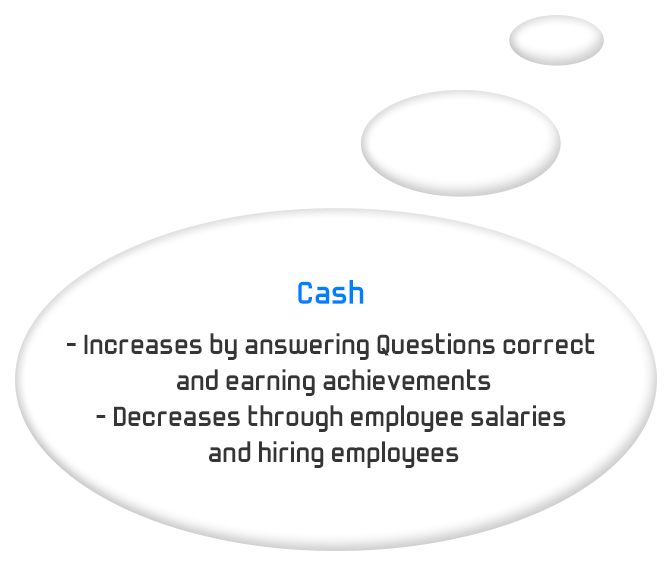
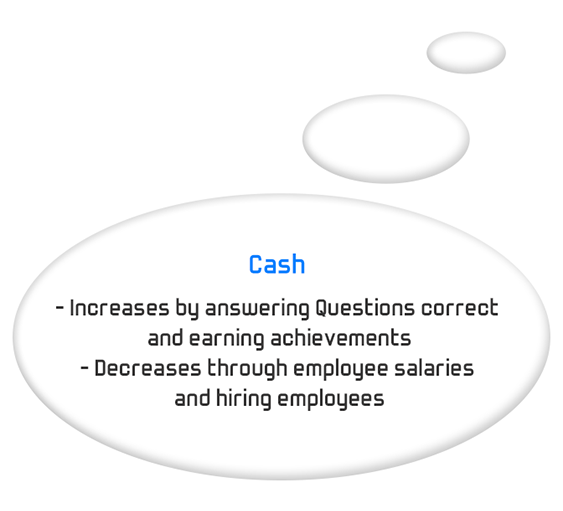
@ravi: making Dialog only one time is done

diff --git a/lib/dialogs/display_dailogs.dart b/lib/dialogs/display_dailogs.dart
@@ -2,6 +2,7 @@ import 'package:flutter/material.dart';
 import 'package:ke_employee/dialogs/intro_sreen_dailog.dart';
 import 'package:ke_employee/helper/Utils.dart';
 import 'package:ke_employee/helper/constant.dart';
+import 'package:ke_employee/helper/prefkeys.dart';
 import 'package:ke_employee/helper/res.dart';
 import 'package:ke_employee/helper/string_res.dart';
 import 'package:ke_employee/injection/dependency_injection.dart';
@@ -904,9 +905,8 @@ class DisplayDialogs {
             desTextLine: Utils.getText(context, StringRes.rewardsDialogContent),
             onTapBtn: () async {
               Navigator.pop(context);
-              await Injector.updateIntroDialogType(
-                  Const.introYourWillIsAtYourCommand);
-              await Injector.prefs.setBool(Const.introRewards.toString(), true);
+              await Injector.updateIntroDialogType(Const.introYourWillIsAtYourCommand);
+              await Injector.prefs.setBool(PrefKeys.introRewards, true);
             },
           );
         });
@@ -940,8 +940,7 @@ class DisplayDialogs {
             onTapBtn: () async {
               Navigator.pop(context);
               await Injector.updateIntroDialogType(Const.introChallanges);
-              await Injector.prefs
-                  .setBool(Const.introYourWillIsAtYourCommand.toString(), true);
+              await Injector.prefs.setBool(PrefKeys.introYourWillIsAtYourCommand.toString(), true);
               showIntroChallanges(context);
             },
           );
@@ -1010,8 +1009,7 @@ class DisplayDialogs {
             onTapBtn: () async {
               Navigator.pop(context);
               await Injector.updateIntroDialogType(Const.introRanking);
-              await Injector.prefs.setBool(
-                  Const.introMarketingAndCommunications.toString(), true);
+              await Injector.prefs.setBool(PrefKeys.introMarketingAndCommunications, true);
               showRanking(context);
             },
           );
@@ -1079,8 +1077,7 @@ class DisplayDialogs {
             onTapBtn: () async {
               Navigator.pop(context);
               await Injector.updateIntroDialogType(Const.introYourTeams);
-              await Injector.prefs
-                  .setBool(Const.introYourTeamsPerformance.toString(), true);
+              await Injector.prefs.setBool(PrefKeys.introYourTeamsPerformance, true);
               showYourTeams(context);
             },
           );
@@ -1180,8 +1177,7 @@ class DisplayDialogs {
             onTapBtn: () async {
               Navigator.pop(context);
               await Injector.updateIntroDialogType(Const.introPL);
-              await Injector.prefs
-                  .setBool(Const.introThePersonYouCanCountOn.toString(), true);
+              await Injector.prefs.setBool(PrefKeys.introThePersonYouCanCountOn, true);
               showIntroPL(context);
             },
           );

diff --git a/lib/screens/profile.dart b/lib/screens/profile.dart
@@ -201,8 +201,9 @@ class _ProfilePageState extends State<ProfilePage> {
                         ),
                       ),
                       InkResponse(
-                        onTap: ()  {
-                           _launchInWebViewOrVC("https://www.blue-elephants-solutions.com/wp/privacy-policy");
+                        onTap: () {
+                          _launchInWebViewOrVC(
+                              "https://www.blue-elephants-solutions.com/wp/privacy-policy");
                         },
                         child: Container(
                           height: 30,
@@ -256,13 +257,12 @@ class _ProfilePageState extends State<ProfilePage> {
                                 : null),
                       ),
                       InkResponse(
-                        onTap: (){
+                        onTap: () {
                           _launchEmail("support@knowledge-empire.com");
                         },
                         child: Container(
                           height: 30,
                           margin: EdgeInsets.symmetric(vertical: 10),
-
                           alignment: Alignment.center,
                           child: Text(
                             Utils.getText(context, StringRes.contactUs),
@@ -633,7 +633,8 @@ class _ProfilePageState extends State<ProfilePage> {
 
       if (data != null) {}
       try {
-        await Injector.prefs.clear();
+//        await Injector.prefs.clear();
+        await removeKeys();
         Injector.userData = null;
         Injector.userId = null;
         Injector.customerValueData = null;
@@ -1209,7 +1210,6 @@ class _ProfilePageState extends State<ProfilePage> {
         Injector.headerStreamController.add(Const.updateProfileBrod);
 
         localeBloc.setLocale(Utils.getIndexLocale());
-
       } else {
         Utils.showToast(Utils.getText(context, StringRes.somethingWrong));
       }
@@ -1323,5 +1323,22 @@ class _ProfilePageState extends State<ProfilePage> {
       CommonView.showCircularProgress(false, context);
       Utils.showToast(e.toString());
     });
+  }
+
+  removeKeys() {
+    Injector.prefs.remove(PrefKeys.user);
+    Injector.prefs.remove(PrefKeys.mode);
+    Injector.prefs.remove(PrefKeys.isLoginFirstTime);
+    Injector.prefs.remove(PrefKeys.questionData);
+    Injector.prefs.remove(PrefKeys.answerData);
+    Injector.prefs.remove(PrefKeys.customerValueData);
+    Injector.prefs.remove(PrefKeys.learningModles);
+    Injector.prefs.remove(PrefKeys.download);
+    Injector.prefs.remove(PrefKeys.isSoundEnable);
+    Injector.prefs.remove(PrefKeys.isIntroRemaining);
+    Injector.prefs.remove(PrefKeys.currentIntroType);
+    Injector.prefs.remove(PrefKeys.deviceToken);
+    Injector.prefs.remove(PrefKeys.badgeCount);
+    Injector.prefs.remove(PrefKeys.dialogTypes);
   }
 }

diff --git a/lib/screens/help_screen.dart b/lib/screens/help_screen.dart
@@ -882,6 +882,7 @@ class HelpPageState extends State<HelpPage> {
                 image: AssetImage(
                     Utils.getAssetsImg(introShowBubbleBrandValue())),
                 height: Utils.getDeviceHeight(context) / 1.5,
+                width: Utils.getDeviceHeight(context) / 1.5,
               ),
               onTap: () {},
             ),
@@ -896,7 +897,8 @@ class HelpPageState extends State<HelpPage> {
             child: InkResponse(
               child: Image(
                 image: AssetImage(Utils.getAssetsImg(introShowBubbleCash())),
-                height: Utils.getDeviceHeight(context) / 1.3,
+                height: Utils.getDeviceHeight(context) / 1.5,
+                width: Utils.getDeviceHeight(context) / 1.5,
               ),
               onTap: () {},
             ),
@@ -913,7 +915,8 @@ class HelpPageState extends State<HelpPage> {
                 child: Image(
                   image: AssetImage(
                       Utils.getAssetsImg(introShowBubbleBusinessSectors())),
-                  height: Utils.getDeviceHeight(context) / 1.3,
+                  height: Utils.getDeviceHeight(context) / 1.5,
+                  width: Utils.getDeviceHeight(context) / 1.5,
                 ),
                 onTap: () {}),
           )
@@ -986,7 +989,8 @@ class HelpPageState extends State<HelpPage> {
               child: Image(
                 image: AssetImage(
                     Utils.getAssetsImg(introShowBubbleChallenges())),
-                height: Utils.getDeviceHeight(context) / 1.8,
+                height: Utils.getDeviceHeight(context) / 1.5,
+                width: Utils.getDeviceHeight(context) / 1.5,
               ),
               onTap: () {},
             ),

diff --git a/lib/screens/challenges.dart b/lib/screens/challenges.dart
@@ -4,6 +4,7 @@ import 'package:flutter/material.dart';
 import 'package:ke_employee/commonview/background.dart';
 import 'package:ke_employee/dialogs/display_dailogs.dart';
 import 'package:ke_employee/helper/constant.dart';
+import 'package:ke_employee/helper/prefkeys.dart';
 import 'package:ke_employee/helper/res.dart';
 import 'package:ke_employee/injection/dependency_injection.dart';
 import 'package:ke_employee/models/friendUnfriendUser.dart';
@@ -59,11 +60,7 @@ class _ChallengesPageState extends State<ChallengesPage> {
   }
 
   Future showIntroDialog() async {
-      if (Injector.prefs
-                  .getBool(Const.introYourWillIsAtYourCommand.toString()) !=
-              null &&
-          Injector.prefs
-              .getBool(Const.introYourWillIsAtYourCommand.toString())) {
+      if (Injector.prefs.getBool(PrefKeys.introYourWillIsAtYourCommand.toString()) != null && Injector.prefs.getBool(PrefKeys.introYourWillIsAtYourCommand.toString())) {
       } else {
         await DisplayDialogs.showYourWillIsAtYourCommand(context);
       }

diff --git a/lib/screens/team.dart b/lib/screens/team.dart
@@ -4,6 +4,7 @@ import 'package:ke_employee/BLoC/customer_value_bloc.dart';
 import 'package:ke_employee/commonview/background.dart';
 import 'package:ke_employee/dialogs/display_dailogs.dart';
 import 'package:ke_employee/helper/constant.dart';
+import 'package:ke_employee/helper/prefkeys.dart';
 import 'package:ke_employee/helper/web_api.dart';
 import 'package:ke_employee/injection/dependency_injection.dart';
 import 'package:ke_employee/models/bailout.dart';
@@ -607,9 +608,9 @@ class _TeamPageState extends State<TeamPage> {
   }
 
   Future getTeamUsers() async {
-      if (Injector.prefs.getBool(Const.introYourTeamsPerformance.toString()) !=
+      if (Injector.prefs.getBool(PrefKeys.introYourTeamsPerformance.toString()) !=
               null &&
-          Injector.prefs.getBool(Const.introYourTeamsPerformance.toString())) {
+          Injector.prefs.getBool(PrefKeys.introYourTeamsPerformance.toString())) {
       } else {
         await DisplayDialogs.showYourTeamsPerformance(context);
       }

diff --git a/lib/screens/P+L.dart b/lib/screens/P+L.dart
@@ -2,6 +2,7 @@ import 'package:flutter/cupertino.dart';
 import 'package:flutter/material.dart';
 import 'package:ke_employee/dialogs/display_dailogs.dart';
 import 'package:ke_employee/helper/constant.dart';
+import 'package:ke_employee/helper/prefkeys.dart';
 import 'package:ke_employee/helper/res.dart';
 import 'package:ke_employee/helper/web_api.dart';
 import 'package:ke_employee/injection/dependency_injection.dart';
@@ -61,7 +62,7 @@ class _PLPageState extends State<PLPage> {
   Future openIntroDialog() async {
 
       await Future.delayed(Duration(milliseconds: 50));
-      if (Injector.prefs.getBool(Const.introThePersonYouCanCountOn.toString()) != null && Injector.prefs.getBool(Const.introThePersonYouCanCountOn.toString())) {
+      if (Injector.prefs.getBool(PrefKeys.introThePersonYouCanCountOn.toString()) != null && Injector.prefs.getBool(PrefKeys.introThePersonYouCanCountOn.toString())) {
       } else {
         await DisplayDialogs.showThePersonYouCanCountOn(context);
       }

diff --git a/lib/screens/rewards.dart b/lib/screens/rewards.dart
@@ -2,6 +2,7 @@ import 'package:flutter/cupertino.dart';
 import 'package:flutter/material.dart';
 import 'package:ke_employee/dialogs/display_dailogs.dart';
 import 'package:ke_employee/helper/constant.dart';
+import 'package:ke_employee/helper/prefkeys.dart';
 import 'package:ke_employee/helper/web_api.dart';
 import 'package:ke_employee/injection/dependency_injection.dart';
 import 'package:ke_employee/models/get_achievement.dart';
@@ -43,8 +44,8 @@ class _RewardsPageState extends State<RewardsPage> {
 
   Future showDialogForCallApi() async {
       await Future.delayed(Duration(milliseconds: 50));
-      if (Injector.prefs.getBool(Const.introRewards.toString()) != null &&
-          Injector.prefs.getBool(Const.introRewards.toString())) {
+      if (Injector.prefs.getBool(PrefKeys.introRewards.toString()) != null &&
+          Injector.prefs.getBool(PrefKeys.introRewards.toString())) {
       } else {
         await DisplayDialogs.showIntroRewards(context);
       }

diff --git a/lib/screens/ranking.dart b/lib/screens/ranking.dart
@@ -1,6 +1,7 @@
 import 'package:flutter/material.dart';
 import 'package:ke_employee/dialogs/display_dailogs.dart';
 import 'package:ke_employee/helper/Utils.dart';
+import 'package:ke_employee/helper/prefkeys.dart';
 import 'package:ke_employee/helper/res.dart';
 import 'package:ke_employee/helper/string_res.dart';
 import 'package:ke_employee/helper/web_api.dart';
@@ -764,10 +765,10 @@ class _RankingPageState extends State<RankingPage> {
 
   void getData() async {
       if (Injector.prefs
-                  .getBool(Const.introMarketingAndCommunications.toString()) !=
+                  .getBool(PrefKeys.introMarketingAndCommunications.toString()) !=
               null &&
           Injector.prefs
-              .getBool(Const.introMarketingAndCommunications.toString())) {
+              .getBool(PrefKeys.introMarketingAndCommunications.toString())) {
       } else {
         await DisplayDialogs.showMarketingAndCommunications(context);
       }

diff --git a/lib/helper/prefkeys.dart b/lib/helper/prefkeys.dart
@@ -13,4 +13,10 @@ class PrefKeys {
   static var deviceToken= "deviceToken";
   static var badgeCount= "badgeCount";
   static var dialogTypes= "dialogTypes";
+
+  static var introYourWillIsAtYourCommand= "introYourWillIsAtYourCommand";
+  static var introYourTeamsPerformance= "introYourTeamsPerformance";
+  static var introRewards= "introRewards";
+  static var introMarketingAndCommunications= "introMarketingAndCommunications";
+  static var introThePersonYouCanCountOn= "introThePersonYouCanCountOn";
 }

diff --git a/lib/screens/intro_page.dart b/lib/screens/intro_page.dart
@@ -66,7 +66,7 @@ class _IntroPageState extends State<IntroPage> {
             borderRadius: BorderRadius.all(Radius.circular(5.0)),
             child: Image.asset(
               url,
-              fit: BoxFit.fill,
+              fit: BoxFit.contain,
               width: Utils.getDeviceWidth(context),
             ),
           );
